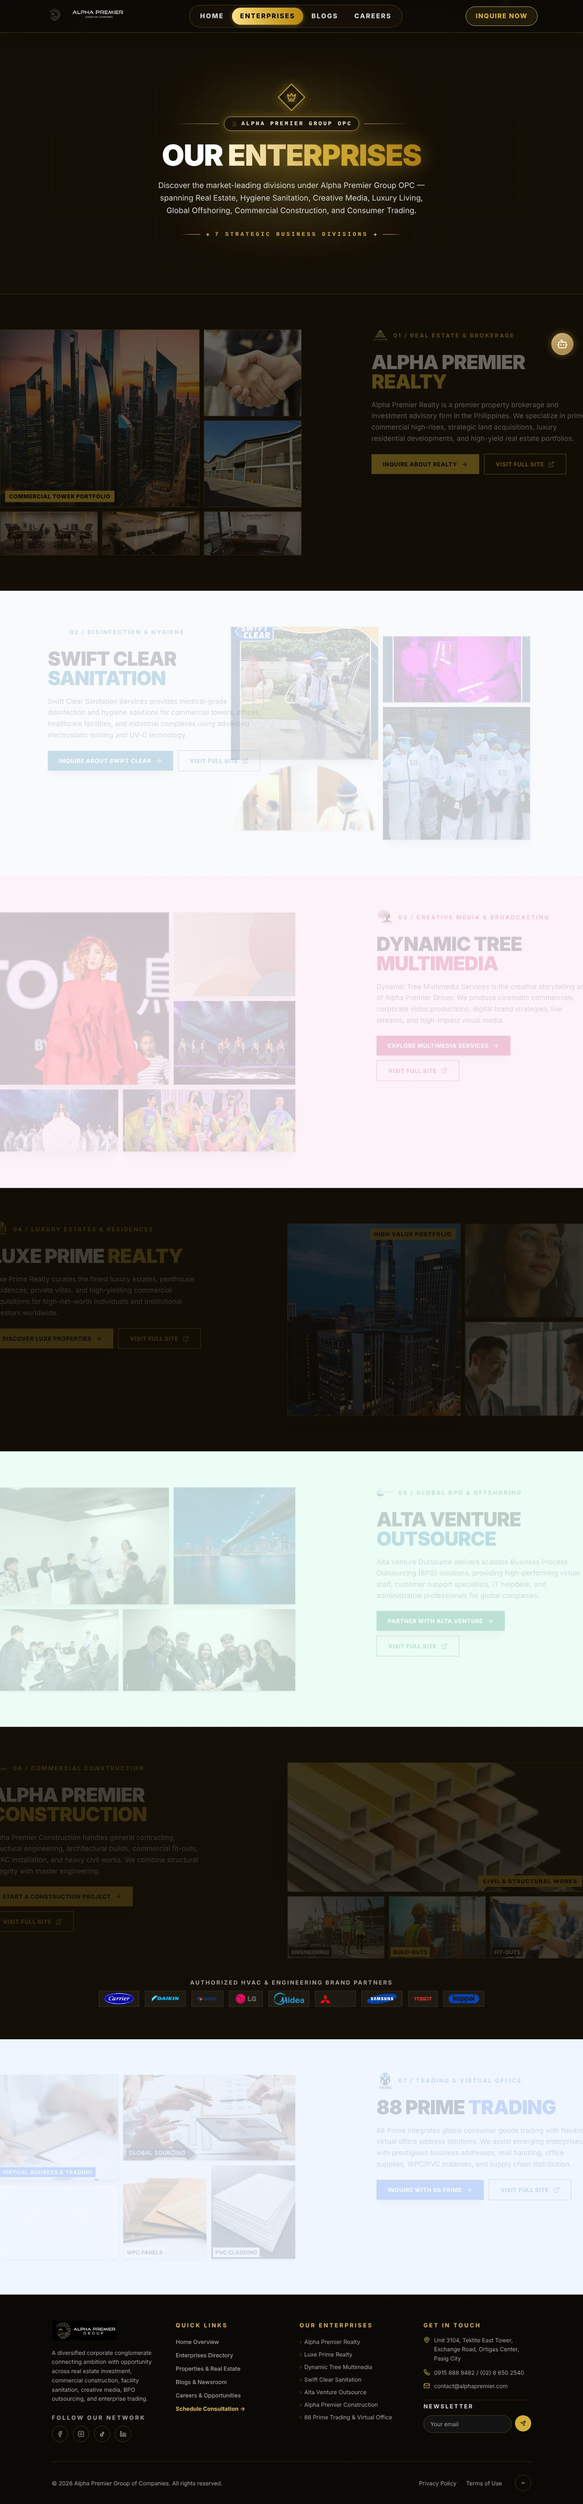
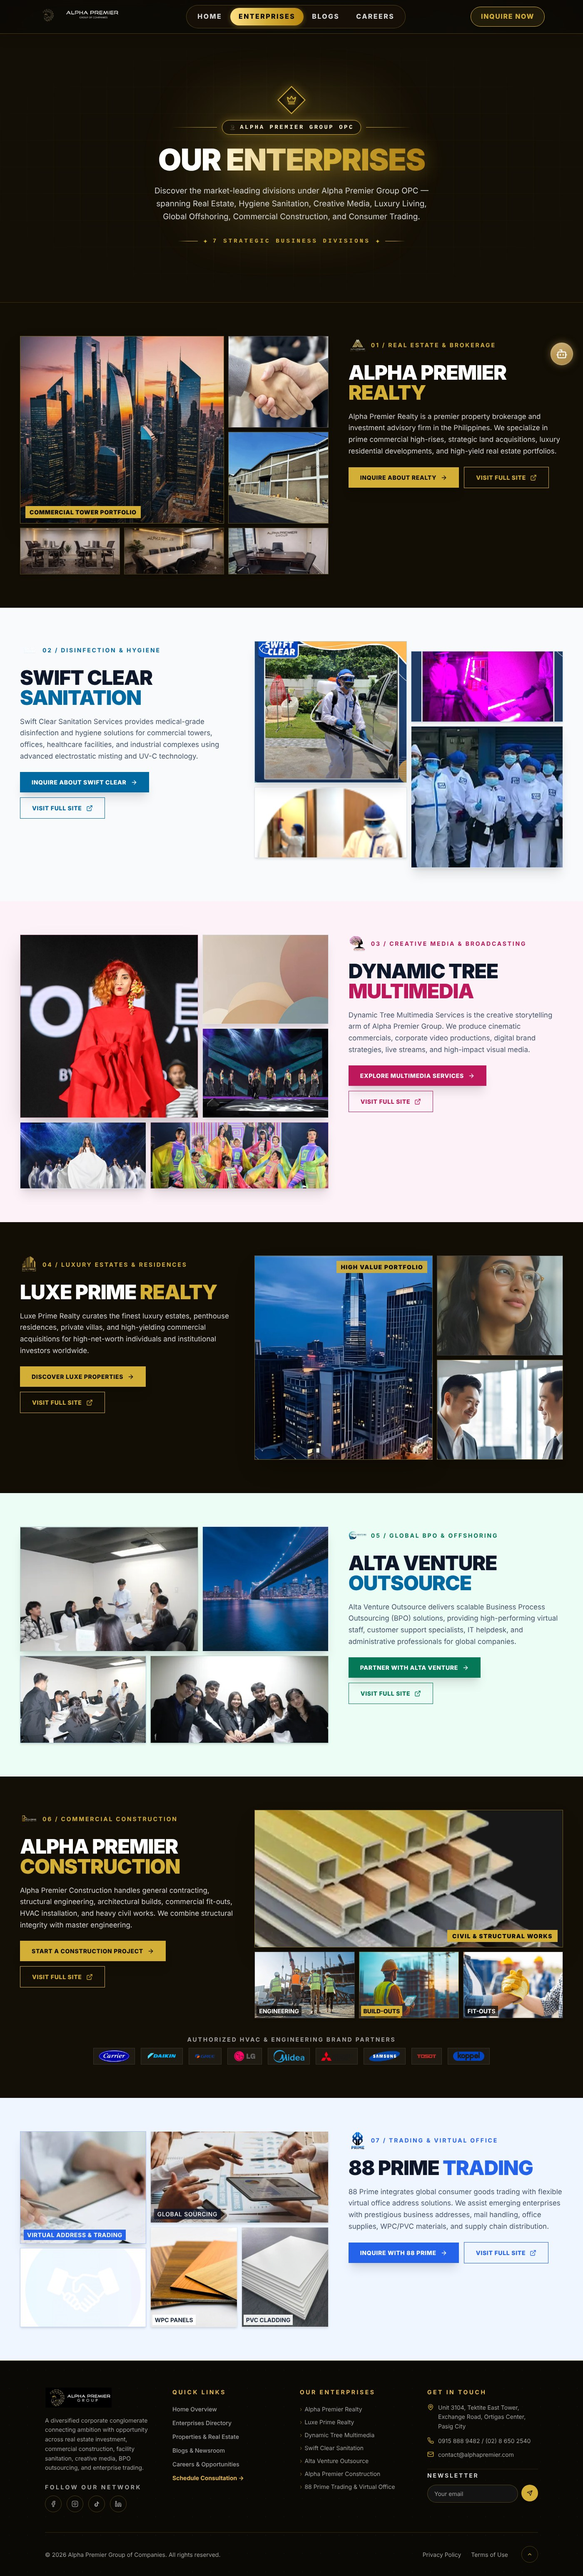
fix(promo): capture enterprises page with scroll reveals settled (v7)
The enterprises page animates each subsidiary section with a scroll-linked
reveal (opacity 0.2→1 + slide), so a full-page capture froze every section
below the hero mid-transition. The capture script now forces those sections
to their finished state before screenshotting; re-captured enterprises.jpg
and re-rendered the film as v7.

Claude-Session: https://claude.ai/code/session_01JSgjrzPGMZP5fnxuDtyYLV

diff --git a/promo-video/tools/capture.py b/promo-video/tools/capture.py
@@ -1,0 +1,61 @@
+"""Full-page captures of the APG site served locally. Scrolls through the page first so in-view animations fire."""
+import asyncio, sys, json
+from playwright.async_api import async_playwright
+BASE = sys.argv[1]; OUT = sys.argv[2]
+ROUTES = json.loads(sys.argv[3])
+FONT_CSS = open('/home/claude/apg-promo/site/fonts/all.css').read()
+W = int(sys.argv[4]) if len(sys.argv) > 4 else 1440
+
+async def main():
+    async with async_playwright() as p:
+        b = await p.chromium.launch(executable_path='/opt/pw-browsers/chromium-1194/chrome-linux/chrome', args=['--no-sandbox'])
+        ctx = await b.new_context(viewport={'width': W, 'height': 900 if W>600 else 844}, device_scale_factor=1 if W>600 else 2, is_mobile=W<=600, has_touch=W<=600)
+        async def route(r):
+            u = r.request.url
+            if 'fonts.googleapis.com' in u:
+                await r.fulfill(status=200, content_type='text/css', body=FONT_CSS)
+            elif 'fonts.cdnfonts.com/css/good-times' in u:
+                await r.fulfill(status=200, content_type='text/css', body="@font-face{font-family:'Good Times';src:url('/__fonts/goodtimes/GoodTimes-Regular.otf') format('opentype');font-weight:400 900;}")
+            elif 'images.unsplash.com' in u:
+                await r.fulfill(status=200, content_type='image/png', body=open('/home/claude/apg-promo/site/fonts/avatar.png','rb').read())
+            elif 'cdnjs.cloudflare.com/__fonts/fa/webfonts/' in u:
+                await r.fulfill(status=200, content_type='font/woff2', body=open('/home/claude/apg-promo/site/fonts/fa/webfonts/'+u.rsplit('/',1)[1].split('?')[0],'rb').read())
+            elif 'font-awesome/6.0.0/css/all.min.css' in u:
+                await r.fulfill(status=200, content_type='text/css', body=open('/home/claude/apg-promo/site/fonts/fa/css/all.min.css').read().replace('../webfonts/','/__fonts/fa/webfonts/'))
+            elif u.startswith(BASE) or u.startswith('http://127.0.0.1'):
+                await r.continue_()
+            else:
+                await r.abort()
+        await ctx.route('**/*', route)
+        page = await ctx.new_page()
+        failed=set()
+        page.on('requestfailed', lambda r: failed.add(r.url))
+        page.on('response', lambda r: failed.add(r.url) if r.status>=400 and r.request.resource_type=='image' else None)
+        await page.add_init_script("""
+          // make scroll-triggered reveals instant
+          try{localStorage.setItem("apg-co\u2026sent", JSON.stringify({choice:'declined',at:1}));}catch(e){}
+          const s=document.createElement('style'); s.textContent='html{scroll-behavior:auto!important} [data-aos]{opacity:1!important;transform:none!important;transition:none!important} *{animation-play-state:paused!important}';
+          document.addEventListener('DOMContentLoaded',()=>document.head.appendChild(s));
+        """)
+        for name, path in ROUTES.items():
+            try:
+                await page.goto(BASE + path, wait_until='networkidle', timeout=60000)
+            except Exception as e:
+                print('goto', name, e)
+            await page.wait_for_timeout(1500)
+            # scroll through to trigger in-view animations
+            h = await page.evaluate('document.documentElement.scrollHeight')
+            y = 0
+            while y < h:
+                await page.evaluate(f'window.scrollTo(0,{y})'); await page.wait_for_timeout(250); y += 400
+                h = await page.evaluate('document.documentElement.scrollHeight')
+            await page.evaluate('window.scrollTo(0,0)'); await page.wait_for_timeout(1200)
+            # settle scroll-linked reveals (framer useScroll sections): force their finished state
+            await page.add_style_tag(content='#realty [style*="opacity"],#swift-clear [style*="opacity"],#dynamic-tree [style*="opacity"],#luxe-prime [style*="opacity"],#alta-venture [style*="opacity"],#construction [style*="opacity"],[id="88-prime"] [style*="opacity"]{opacity:1!important;transform:none!important}')
+            await page.wait_for_timeout(800)
+            h = await page.evaluate('document.documentElement.scrollHeight')
+            out = f'{OUT}/{name}.png'
+            await page.screenshot(path=out, full_page=True, animations='disabled')
+            print(name, 'height', h, '->', out); [print('  FAILED', u) for u in sorted(failed) if 'fonts.g' not in u]; failed.clear()
+        await b.close()
+asyncio.run(main())
